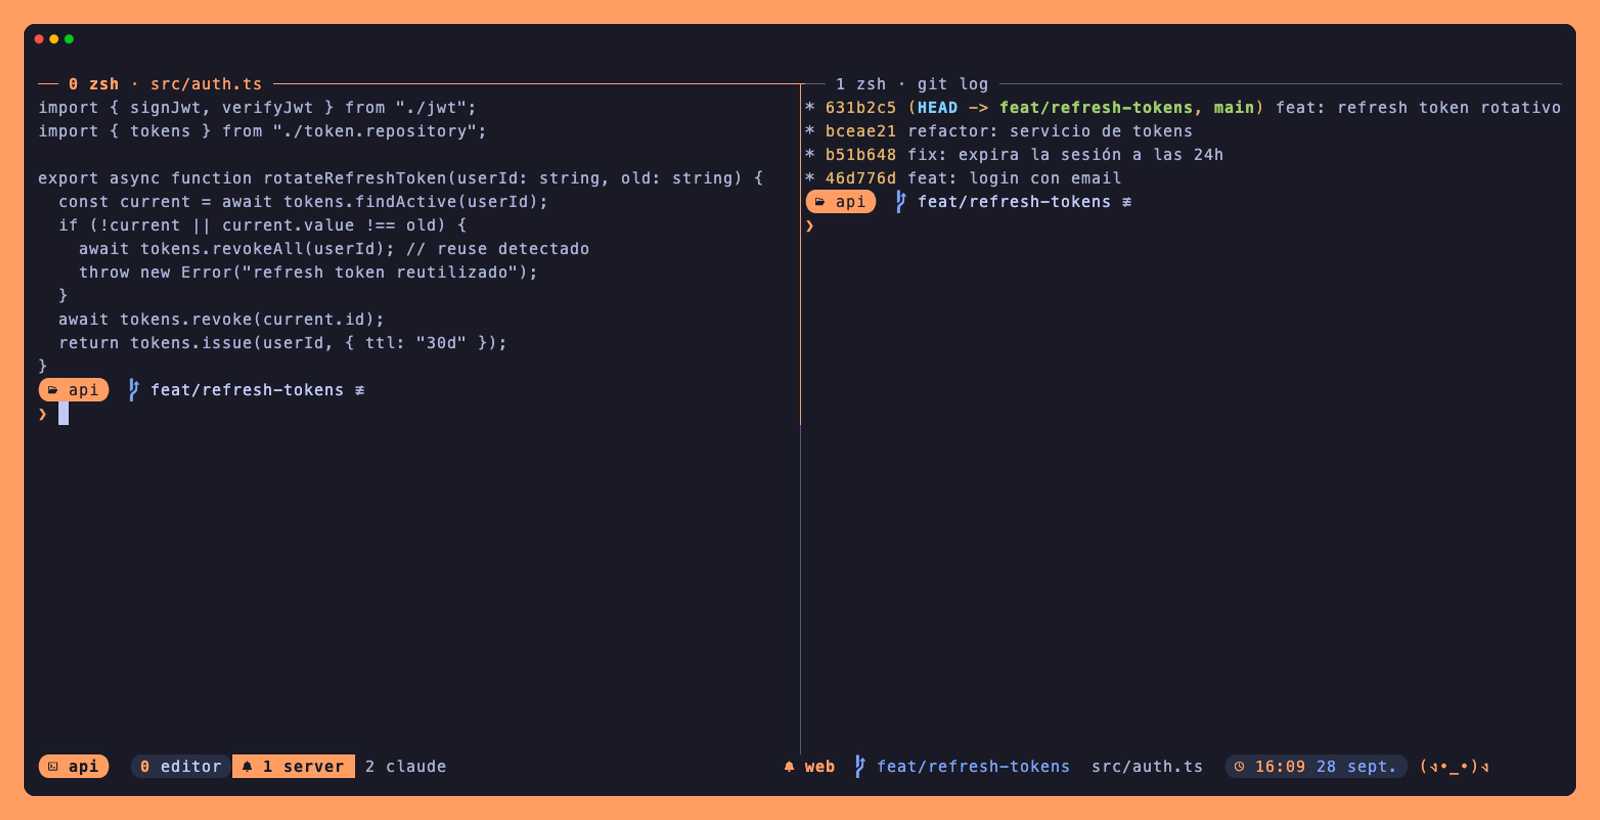
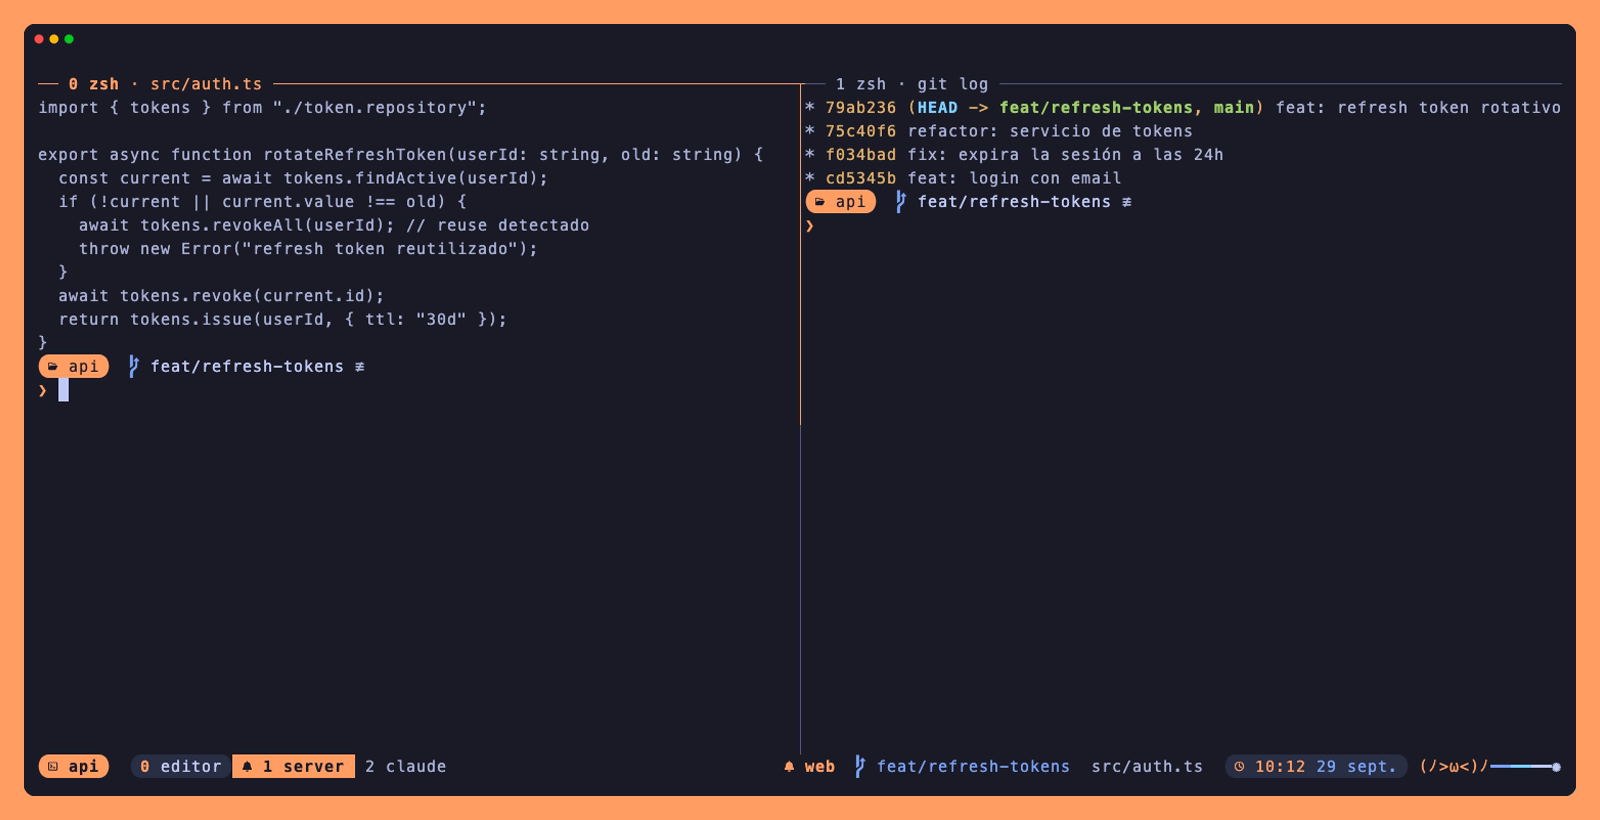
feat(mundito): tests, GIF y demo VHS; colores cuantizados para frames más livianos; hero.gif con la mascota nueva

diff --git a/extras/mundito/test_mundito.py b/extras/mundito/test_mundito.py
@@ -1,0 +1,54 @@
+"""Chequeos de mundito: config (default, roto, recortes) y tamaño de los frames. Correr: python3 -m unittest extras/mundito/test_mundito.py"""
+import json, os, re, tempfile, unittest
+import importlib.util
+from importlib.machinery import SourceFileLoader
+
+HERE = os.path.dirname(os.path.abspath(__file__))
+ANSI = re.compile(r"\x1b\[[0-9;]*[mK]")
+
+def load(config=None, raw=None):
+    """Carga mundito con un config dado (dict, texto crudo o ruta inexistente)."""
+    path = os.path.join(tempfile.mkdtemp(), "config.json")
+    if config is not None or raw is not None:
+        with open(path, "w") as f: f.write(raw if raw is not None else json.dumps(config))
+    os.environ["MUNDITO_CONFIG"] = path
+    loader = SourceFileLoader(f"mundito_{id(path)}", os.path.join(HERE, "mundito"))  # sin .py: loader explícito
+    mod = importlib.util.module_from_spec(importlib.util.spec_from_loader(loader.name, loader))
+    loader.exec_module(mod)
+    return mod
+
+class Config(unittest.TestCase):
+    def test_sin_config_usa_el_ejemplo(self):
+        m = load()
+        self.assertEqual([o[-1] for o in m.ORBITS], [o["items"] for o in m.DEFAULT["orbits"]])
+
+    def test_json_roto_usa_el_ejemplo(self):
+        self.assertEqual(len(load(raw="{roto").ORBITS), 3)
+
+    def test_recorta_items_largos_y_orbitas_de_mas(self):
+        o = {"color": "#ff0000", "glyph": "★★", "items": ["x" * 40] + [str(i) for i in range(9)]}
+        m = load({"orbits": [o] * 5})
+        self.assertEqual(len(m.ORBITS), 3)                 # solo caben 3 órbitas
+        self.assertEqual(len(m.ORBITS[0][-1]), 6)          # hasta 6 items
+        self.assertEqual(len(m.ORBITS[0][-1][0]), 18)      # nombres de hasta 18
+        self.assertEqual(m.ORBITS[0][1], "★")              # glyph de un caracter
+
+    def test_color_invalido_no_revienta(self):
+        m = load({"orbits": [{"color": "rojo", "items": ["a"]}]})
+        self.assertEqual(len(m.ORBITS), 1)
+
+class Frames(unittest.TestCase):
+    def test_frame_tiene_rows_filas_y_no_se_pasa_del_ancho(self):
+        m = load()
+        for cols in (m.W, 60):
+            rows = m.render(m.frame(40), 40, cols)
+            self.assertEqual(len(rows), m.ROWS)
+            self.assertTrue(all(len(ANSI.sub("", r)) <= cols for r in rows))
+
+    def test_el_cerebro_cabe_en_la_escena(self):
+        m = load()
+        self.assertGreater(len(m.CELLS), 300)
+        self.assertTrue(all(0 <= x < m.W and 0 <= y < m.H for x, y in m.CELLS))
+
+if __name__ == "__main__":
+    unittest.main()

diff --git a/README.md b/README.md
@@ -124,7 +124,7 @@ eval "$(oh-my-posh init zsh --config /ruta/a/kamehameha.omp.json)"
 
 ### mundito: un cerebro arriba de la terminal
 
-![mundito](assets/mundito.png)
+![mundito](assets/mundito.gif)
 
 `extras/mundito/` no depende de tmux: es zsh con Python 3, sin paquetes externos. Dibuja un cerebro en Braille arriba de la terminal, con luz que barre, ondas de actividad y un aura. Alrededor giran tus palabras en hasta tres órbitas. Sigue animado mientras escribes, porque zle pinta cada frame entre teclas.
 
@@ -146,7 +146,7 @@ Los GIFs salen de [VHS](https://github.com/charmbracelet/vhs) sobre un servidor 
 
 ```sh
 brew install vhs
-vhs demo/hero.tape && vhs demo/sessions.tape && vhs demo/search.tape
+vhs demo/hero.tape && vhs demo/sessions.tape && vhs demo/search.tape && vhs demo/mundito.tape
 ```
 
 `demo/setup.sh` arma ese servidor; puedes correrlo solo y entrar con `tmux -L kh-demo attach -t api`.
